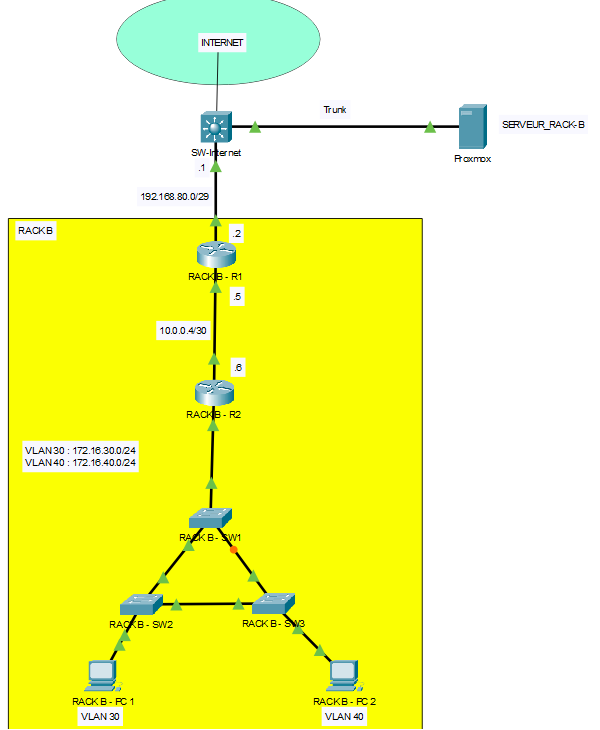
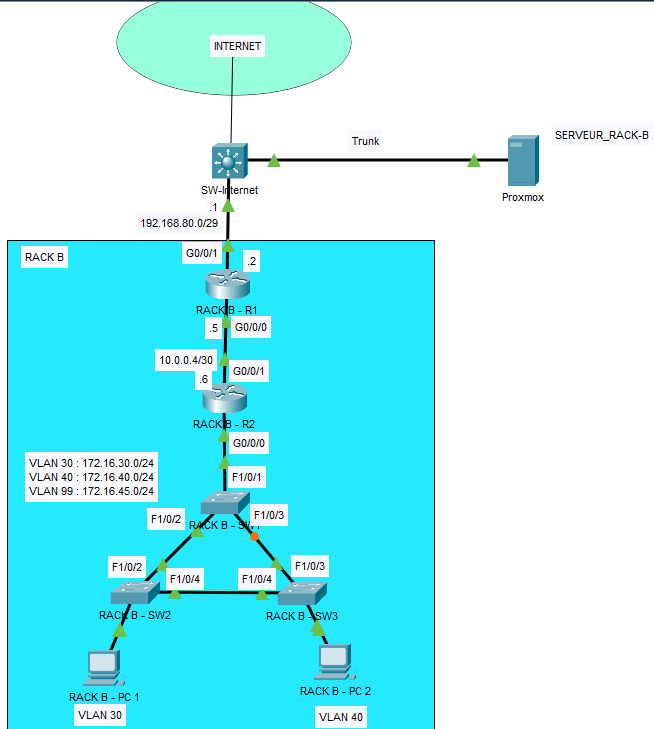
Fixed some lab1 issues

diff --git a/laboratoires/rack_f/lab1.md b/laboratoires/rack_f/lab1.md
@@ -3,35 +3,35 @@
 
 # Topologie
 
-![Topo](../../topo/rack-e/topo1-4.png)
+![Topo](../../topo/rack-f/topo1-4.png)
 
 # Table d’adressage :
 
 |Equipments|Interface     | IP Address     | Subnet Mask     | Default Gateway | Description
 |----------|--------------|---------------|----------------|------------------|------------------|
-|RACK-E-R1 |G0/0/1   |192.168.110.2       |255.255.255.248           | N/A|Connexion a internet via la switch
-|          |G0/0/0   |10.0.0.17   |255.255.255.252| N/A|Connexion au routeur R2
-|RACK-E-R2 |G0/0/1   |10.0.0.18   |255.255.255.252| N/A|Connexion au routeur R1
-|          |G0/0/0.90|172.16.90.1|255.255.255.0  | N/A|Connexion au switch SW1 - VLAN 90
-|          |G0/0/0.100|172.16.100.1|255.255.255.0  | N/A|Connexion au switch SW1 - VLAN 100
-|RACK-E-PC1|Fa0      |DHCP       |DHCP  | DHCP   |    |
-|RACK-E-PC2|Fa0      |DHCP       |DHCP  | DHCP   |    |
+|RACK-F-R1 |G0/0/1   |192.168.120.2       |255.255.255.248           | N/A|Connexion a internet via la switch
+|          |G0/0/0   |10.0.0.21   |255.255.255.252| N/A|Connexion au routeur R2
+|RACK-F-R2 |G0/0/1   |10.0.0.22   |255.255.255.252| N/A|Connexion au routeur R1
+|          |G0/0/0.110|172.16.110.1|255.255.255.0  | N/A|Connexion au switch SW1 - VLAN 100
+|          |G0/0/0.120|172.16.120.1|255.255.255.0  | N/A|Connexion au switch SW1 - VLAN 120
+|RACK-F-PC1|Fa0      |DHCP       |DHCP  | DHCP   |    |
+|RACK-F-PC2|Fa0      |DHCP       |DHCP  | DHCP   |    |
 
 # Table VLAN
 |Equipments|VLAN     | Nom VLAN    |
 |----------|--------------|---------------|
-|RACK-E-SW1, RACK-E-SW2 et RACK-E-SW3|VLAN 90| VLAN90
-|          |VLAN 100| VLAN100
+|RACK-E-SW1, RACK-E-SW2 et RACK-E-SW3|VLAN 110| VLAN110
+|          |VLAN 120| VLAN120
 |          |VLAN 99| Mgmt_Native
 
 # Table de ports
 |Equipments|Ports |  |
 |----------|-----|----------|
-|RACK-E-SW1 |F1/0/1, F1/0/2, F1/0/3| Trunk
-|RACK-E-SW2 |F1/0/2, F1/0/4| Trunk
-||F1/0/5| Vlan 90
-|RACK-E-SW3 |F1/0/3, F1/0/4| Trunk
-||F1/0/5| Vlan 100
+|RACK-F-SW1 |F1/0/1, F1/0/2, F1/0/3| Trunk
+|RACK-F-SW2 |F1/0/2, F1/0/4| Trunk
+||F1/0/5| Vlan 110
+|RACK-F-SW3 |F1/0/3, F1/0/4| Trunk
+||F1/0/5| Vlan 120
 
 # Étape 1 – Configuration des paramètres de base
 a. Configurez les noms d’hôte (hostname)
@@ -48,7 +48,7 @@ a. À l’aide des tableaux des VLANs et des ports, configurez les VLANs et les 
 # Étape 3 – Configuration des adresses IP et du routage inter-VLAN
 a. À l’aide du tableau d’adresses IP, configurez les adresses IP.
 
-b. Configurez le routage inter-VLAN et attribuez la première adresse IP disponible de chaque réseau aux sous-interfaces du routeur RACK-E-R2
+b. Configurez le routage inter-VLAN et attribuez la première adresse IP disponible de chaque réseau aux sous-interfaces du routeur RACK-F-R2
 
 # Étape 4 – Configuration du routage statique et dynamique 
 a. Configurez le routage OSPF sur tous les routeurs.
@@ -59,16 +59,16 @@ a. Configurez le routage OSPF sur tous les routeurs.
 
 •   Configurez les interfaces passives aux endroits appropriés.
 
-b. Sur RACK-E-R1, configurez une route par défaut pointant vers SW-Internet en utilisant l’interface de sortie. Sur RACK-E-R1, utilisez la commande appropriée pour propager cette route par défaut à ses voisins OSPF.
+b. Sur RACK-F-R1, configurez une route par défaut pointant vers SW-Internet en utilisant l’interface de sortie. Sur RACK-F-R1, utilisez la commande appropriée pour propager cette route par défaut à ses voisins OSPF.
 
 # Étape 5 – Configuration du DHCP 
 Le serveur DHCP est déjà configuré pour vous. Son adresse IP est la suivante :
 Vous devez configurer IP Helper pour qu’il pointe vers ce serveur DHCP.
 
 # Étape 6 – Configuration de SSH 					
-a. Configurez SSH sur le routeur RACK-E-R1.
+a. Configurez SSH sur le routeur RACK-F-R1.
 
-b. Définissez le nom de domaine à rack-e.local
+b. Définissez le nom de domaine à rack-f.local
 
 c. Créez un utilisateur cisco avec le mot de passe cisco1234.
 
@@ -81,7 +81,7 @@ f. Paramétrez toutes les lignes vty 0 4 pour utiliser SSH et un login local
 # Étape 7 – Configuration des ACL standards	
 Configurez une ACL standard nommée ACL_VLAN90 qui filtre selon les critères suivants :
 
-•	Empêche le réseau 172.16.90.0/24 d’accéder au réseau 172.16.100.0/24
+•	Empêche le réseau 172.16.110.0/24 d’accéder au réseau 172.16.120.0/24
 
 •	Tout autre trafic est permis
 
@@ -90,6 +90,6 @@ Configurez une ACL standard nommée ACL_VLAN90 qui filtre selon les critères su
 # Étape 8 – Configuration des ACL étendues
 Configurez une ACL étendu numérotée 100 qui :
 
-•	Bloque le traffic web en provenance du réseau 172.16.90.0/24 vers le serveur le web (on souhaite ici interdit l’accès aux pages web).
+•	Bloque le traffic web en provenance du réseau 172.16.110.0/24 vers le serveur le web (on souhaite ici interdit l’accès aux pages web).
 
 •	Tout autre type de traffic est autorisé

diff --git a/laboratoires/rack_c/lab1.md b/laboratoires/rack_c/lab1.md
@@ -10,8 +10,8 @@
 |Equipments|Interface     | IP Address     | Subnet Mask     | Default Gateway | Description
 |----------|--------------|---------------|----------------|------------------|------------------|
 |RACK-C-R1 |G0/0/1   |192.168.90.2       |255.255.255.248           | N/A|Connexion a internet via la switch
-|          |G0/0/0   |10.0.0.5   |255.255.255.252| N/A|Connexion au routeur R2
-|RACK-C-R2 |G0/0/1   |10.0.0.6   |255.255.255.252| N/A|Connexion au routeur R1
+|          |G0/0/0   |10.0.0.9   |255.255.255.252| N/A|Connexion au routeur R2
+|RACK-C-R2 |G0/0/1   |10.0.0.10   |255.255.255.252| N/A|Connexion au routeur R1
 |          |G0/0/0.50|172.16.50.1|255.255.255.0  | N/A|Connexion au switch SW1 - VLAN 50
 |          |G0/0/0.60|172.16.60.1|255.255.255.0  | N/A|Connexion au switch SW1 - VLAN 60
 |RACK-C-PC1|Fa0      |DHCP       |DHCP  | DHCP   |    |
@@ -20,8 +20,8 @@
 # Table VLAN
 |Equipments|VLAN     | Nom VLAN    |
 |----------|--------------|---------------|
-|RACK-C-SW1, RACK-C-SW2 et RACK-C-SW3|VLAN 50| VLAN60
-|          |VLAN 50| VLAN60
+|RACK-C-SW1, RACK-C-SW2 et RACK-C-SW3|VLAN 50| VLAN50
+|          |VLAN 60| VLAN60
 |          |VLAN 99| Mgmt_Native
 
 # Table de ports
@@ -29,9 +29,9 @@
 |----------|-----|----------|
 |RACK-C-SW1 |F1/0/1, F1/0/2, F1/0/3| Trunk
 |RACK-C-SW2 |F1/0/2, F1/0/4| Trunk
-||F1/0/5| Vlan 10
+||F1/0/5| Vlan 50
 |RACK-C-SW3 |F1/0/3, F1/0/4| Trunk
-||F1/0/5| Vlan 20
+||F1/0/5| Vlan 60
 
 # Étape 1 – Configuration des paramètres de base
 a. Configurez les noms d’hôte (hostname)

diff --git a/laboratoires/rack_b/lab1.md b/laboratoires/rack_b/lab1.md
@@ -20,8 +20,8 @@
 # Table VLAN
 |Equipments|VLAN     | Nom VLAN    |
 |----------|--------------|---------------|
-|RACK-B-SW1, RACK-B-SW2 et RACK-B-SW3|VLAN 30| VLAN40
-|          |VLAN 30| VLAN40
+|RACK-B-SW1, RACK-B-SW2 et RACK-B-SW3|VLAN 30| VLAN30
+|          |VLAN 40| VLAN40
 |          |VLAN 99| Mgmt_Native
 
 # Table de ports
@@ -29,9 +29,9 @@
 |----------|-----|----------|
 |RACK-B-SW1 |F1/0/1, F1/0/2, F1/0/3| Trunk
 |RACK-B-SW2 |F1/0/2, F1/0/4| Trunk
-||F1/0/5| Vlan 10
+||F1/0/5| Vlan 30
 |RACK-B-SW3 |F1/0/3, F1/0/4| Trunk
-||F1/0/5| Vlan 20
+||F1/0/5| Vlan 40
 
 # Étape 1 – Configuration des paramètres de base
 a. Configurez les noms d’hôte (hostname)

diff --git a/laboratoires/rack_d/lab1.md b/laboratoires/rack_d/lab1.md
@@ -20,8 +20,8 @@
 # Table VLAN
 |Equipments|VLAN     | Nom VLAN    |
 |----------|--------------|---------------|
-|RACK-D-SW1, RACK-D-SW2 et RACK-D-SW3|VLAN 70| VLAN80
-|          |VLAN 70| VLAN80
+|RACK-D-SW1, RACK-D-SW2 et RACK-D-SW3|VLAN 70| VLAN70
+|          |VLAN 80| VLAN80
 |          |VLAN 99| Mgmt_Native
 
 # Table de ports
@@ -29,9 +29,9 @@
 |----------|-----|----------|
 |RACK-D-SW1 |F1/0/1, F1/0/2, F1/0/3| Trunk
 |RACK-D-SW2 |F1/0/2, F1/0/4| Trunk
-||F1/0/5| Vlan 10
+||F1/0/5| Vlan 70
 |RACK-D-SW3 |F1/0/3, F1/0/4| Trunk
-||F1/0/5| Vlan 20
+||F1/0/5| Vlan 80
 
 # Étape 1 – Configuration des paramètres de base
 a. Configurez les noms d’hôte (hostname)
